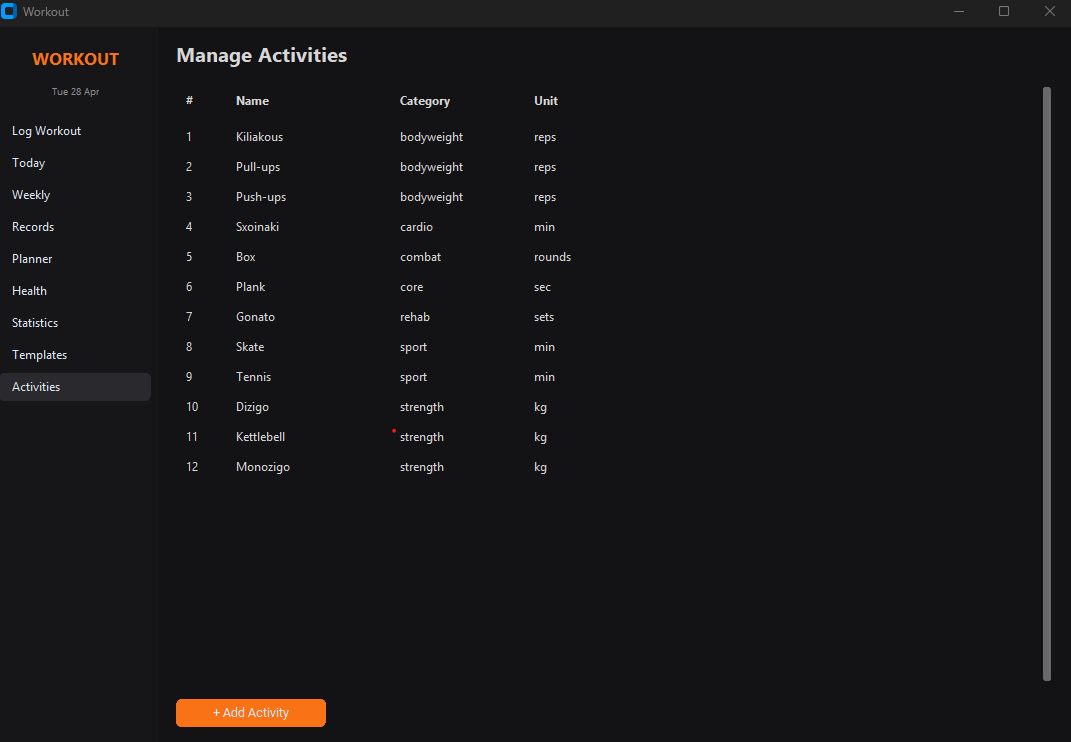
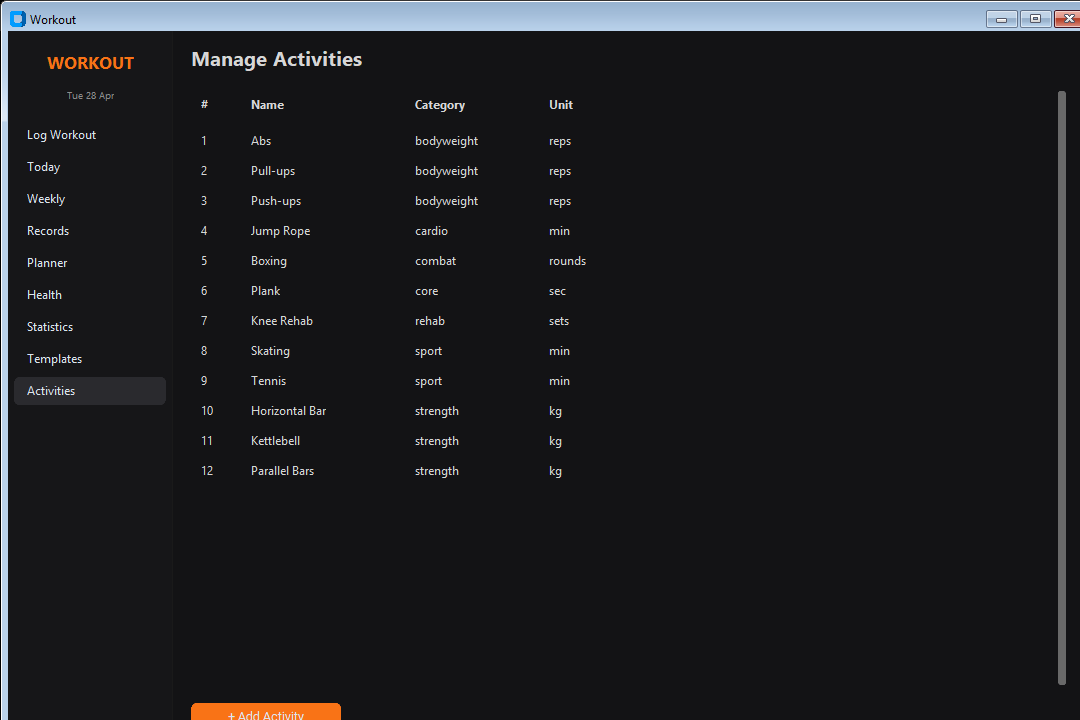
Update screenshots (English names), expand README

diff --git a/README.md b/README.md
@@ -1,12 +1,13 @@
 # Workout Tracker
 
-A personal workout tracking desktop app built with Python and CustomTkinter.
+A personal workout tracking desktop app built with Python and CustomTkinter. Tracks sets, reps, weight, duration, personal records, weekly plans, health metrics, and more — all stored locally with no account required.
 
 ## Download
 
 [![Download](https://img.shields.io/badge/Download-Workout.zip-orange?style=for-the-badge&logo=windows)](https://raw.githubusercontent.com/lefteriskrith/Workout/main/releases/Workout.zip)
 
-> Windows only · No installation required · Just unzip and run `Workout.exe`
+> **Windows only** · No installation required · Just unzip and run `Workout.exe`  
+> Your data is saved in `%USERPROFILE%\.workout_tracker\workout.db`
 
 ---
 
@@ -20,15 +21,55 @@ A personal workout tracking desktop app built with Python and CustomTkinter.
 
 ## Features
 
-- **Log Workout** — Log sets with weight, reps, duration, and RPE per exercise
-- **Today** — Summary of everything logged today
-- **Weekly Overview** — See planned vs completed exercises for the week, with progress bars
-- **Personal Records** — Tracks best weight, reps, duration and volume per exercise automatically
-- **Planner** — Set weekly targets per exercise per day; copy last week's plan
-- **Health Log** — Daily body weight, sleep hours, energy level, and pain notes
-- **Statistics** — 30-day frequency table and 8-week volume trend
-- **Templates** — Save reusable workout routines
-- **Activities** — Add your own custom exercises with category and unit
+### Log Workout
+Log each set individually with weight (kg), reps, duration, and RPE (Rate of Perceived Exertion). The app shows your previous session's numbers as a reference, calculates an estimated 1-Rep Max live as you type, and flags any new personal records the moment you log them.
+
+### Today
+A summary of everything you logged today — exercises done, max weight, max reps, total duration, and average RPE per exercise. Also shows the day's health snapshot (weight, sleep, energy) if logged.
+
+### Weekly Overview
+See each day of the current week as a card with planned vs completed exercises. A progress bar and ratio (e.g. `3/5`) shows how much of the day's plan is done. Unplanned extras are shown with a `+` marker.
+
+### Personal Records
+A table of lifetime bests per exercise — best weight, best reps, best duration, best volume, and the date it was set. Updated automatically every time you log a session.
+
+### Weekly Planner
+Set target sets, reps, weight, and duration per exercise per day of the week. Copy last week's plan with one click to avoid re-entering the same routine every Monday.
+
+### Health Log
+Log daily body weight, sleep hours, energy level (1–10), and pain/discomfort notes. The last 30 days are shown in a table with colour-coded energy levels.
+
+### Statistics
+- **Frequency (30 days):** how many times you did each exercise, total sets, reps, and minutes
+- **Weekly Trend:** sessions, active days, and different exercises per week for the last 8 weeks, with a visual volume bar
+
+### Templates
+Save reusable workout routines (e.g. "Push Day", "Leg Day") with a list of exercises and target sets/reps/weight. Use them as a quick reference when planning or logging.
+
+### Activities
+Add your own custom exercises with a name, category (sport / strength / bodyweight / cardio / combat / core / rehab), and unit (reps / kg / min / sec / rounds / sets).
+
+### Rest Timer
+Built into the Log Workout page — preset buttons for 60s, 90s, 2m, 3m. Beeps three times when it reaches zero.
+
+---
+
+## Default Activities
+
+| Exercise | Category | Unit |
+|---|---|---|
+| Abs | bodyweight | reps |
+| Pull-ups | bodyweight | reps |
+| Push-ups | bodyweight | reps |
+| Jump Rope | cardio | min |
+| Boxing | combat | rounds |
+| Plank | core | sec |
+| Knee Rehab | rehab | sets |
+| Skating | sport | min |
+| Tennis | sport | min |
+| Horizontal Bar | strength | kg |
+| Kettlebell | strength | kg |
+| Parallel Bars | strength | kg |
 
 ---
 
@@ -41,10 +82,20 @@ pip install -r requirements.txt
 python WorkoutApp.py
 ```
 
-For the terminal (CLI) interface:
+There is also a terminal (CLI) interface using [Rich](https://github.com/Textualize/rich):
 
 ```bash
 python main.py
+```
+
+---
+
+## Running Tests
+
+47 smoke and regression tests covering all modules:
+
+```bash
+python -m pytest tests/ -v
 ```
 
 ---
@@ -63,14 +114,8 @@ Workout/
 │   └── templates.py      # Workout templates
 ├── WorkoutApp.py         # GUI entry point (CustomTkinter)
 ├── main.py               # CLI entry point (Rich)
+├── releases/
+│   └── Workout.zip       # Pre-built Windows executable
 └── tests/
     └── test_workout.py   # 47 smoke + regression tests
-```
-
----
-
-## Running Tests
-
-```bash
-python -m pytest tests/ -v
 ```
